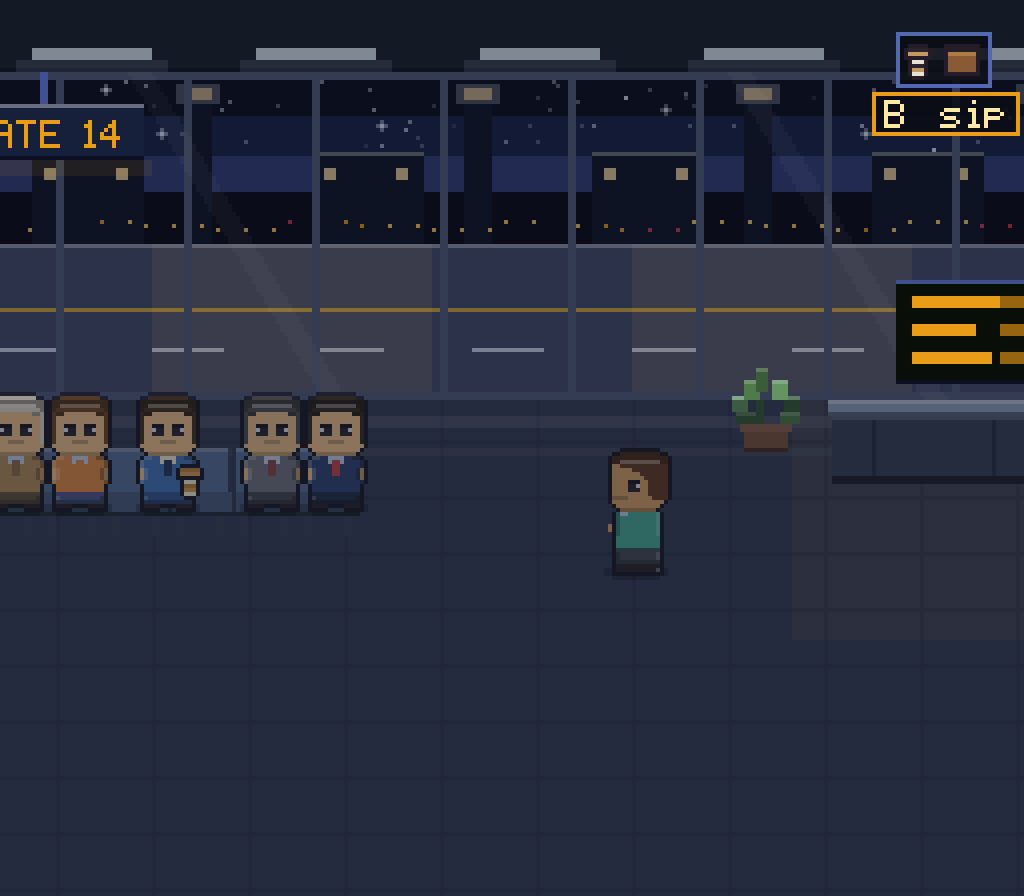
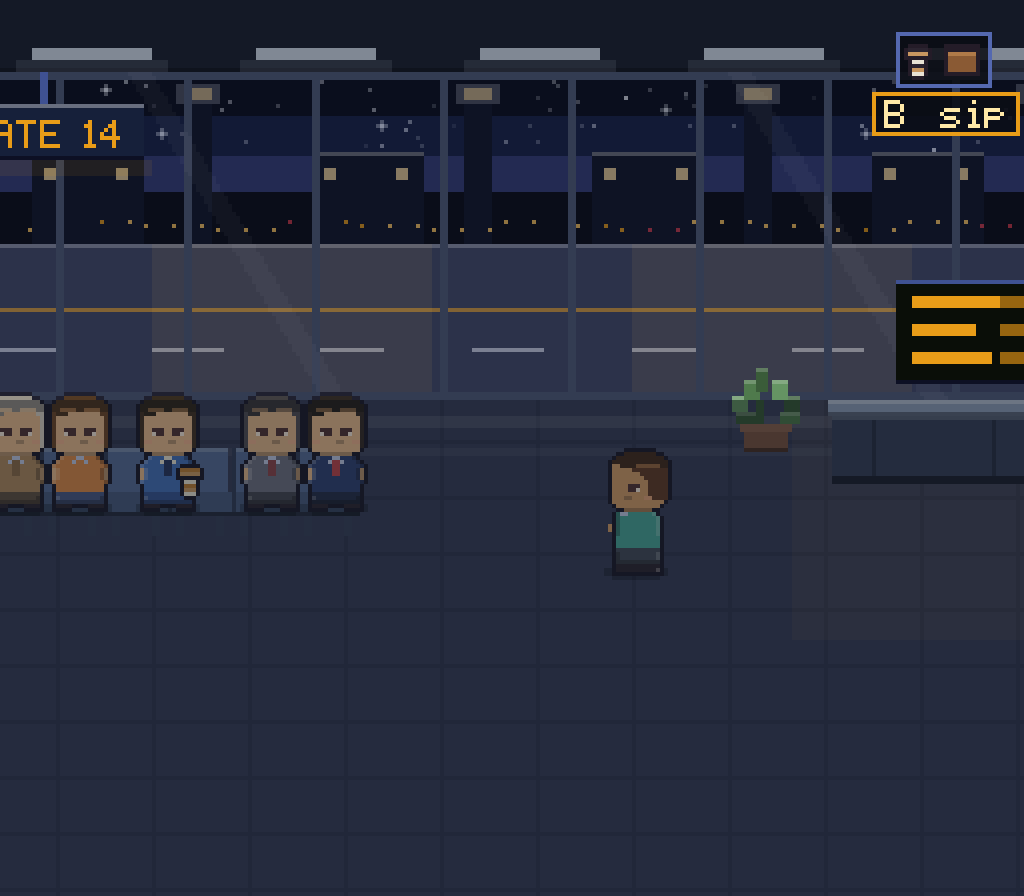
Warm the faces up
They were scowling, and it was three specific things rather than a general
lack of polish:

- A hard outline row sat directly above each eye and read as a furrowed brow.
  Removed entirely; the forehead is open now.
- Eyes were solid three-row blocks of near-black, two pixels wide. Near-black
  stares, and two pixels on a head this size reads as beady. They are now
  three wide, two rows, in a warm dark brown, with a highlight on the inner
  side and more white.
- No mouth and no colour in the cheeks, so nothing softened any of it. Both
  added — the cheek tone is the skin ramp mixed toward a warm blush rather
  than simply lightened.

Also:
- The hair highlight was made by lightening toward white, which turns a dark
  brown grey and read as a bald patch. It is warmed toward a light brown now.
- Shoulders slope instead of sitting square under the bigger head.
- Rounder skull and a tapered jaw.
- tools/faces.js renders heads at 12x, because none of this is judgeable at
  the size the sprites actually appear.

diff --git a/dist/rhubarb.html b/dist/rhubarb.html
@@ -780,26 +780,26 @@
   // eyes in it, and a small tidy body underneath. Eyes are three rows tall
   // with a highlight, which is the single thing that makes a face read.
   var HEAD_DOWN = [
-    '5. 10t 5.',
-    '3. 2t 10d 2t 3.',
+    '6. 8t 6.',
+    '4. 2t 8d 2t 4.',
+    '3. 1t 12d 1t 3.',
     '2. 1t 14d 1t 2.',
-    '2. 1t 2d 10H 2d 1t 2.',
-    '2. 1t 1d 12h 1d 1t 2.',
-    '2. 1t 1h 2d 8k 2d 1h 1t 2.',
+    '2. 1t 2d 4H 2d 4H 2d 1t 2.',
+    '2. 1t 1h 3d 8k 2h 1t 2.',
     '2. 1t 1h 12k 1h 1t 2.',
     '2. 1t 1h 12k 1h 1t 2.',
-    '2. 1t 1h 2k 3t 2k 3t 2k 1h 1t 2.',
-    '2. 1t 1h 2k 1q 2e 2k 2e 1q 2k 1h 1t 2.',
+    '2. 1t 1h 12k 1h 1t 2.',
     '2. 1t 1h 2k 3e 2k 3e 2k 1h 1t 2.',
+    '2. 1t 1h 2k 1q 2e 2k 2e 1q 2k 1h 1t 2.',
     '2. 1t 1h 12k 1h 1t 2.',
-    '2. 1t 1h 4k 4K 4k 1h 1t 2.',
-    '2. 1t 14k 1t 2.',
+    '2. 1t 1h 2f 4k 2K 2k 2f 1h 1t 2.',
+    '2. 1t 1h 12k 1h 1t 2.',
     '3. 1t 12k 1t 3.',
-    '4. 1t 10K 1t 4.'
+    '4. 2t 8K 2t 4.'
   ];
   var TORSO_DOWN = [
-    '3. 1t 2L 2s 4w 2s 2S 1t 3.',
-    '2. 1t 1L 4s 1w 2c 1w 4s 1S 1t 2.',
+    '4. 1t 1L 3s 2w 3s 1S 1t 4.',
+    '3. 1t 1L 3s 1w 2c 1w 3s 1S 1t 3.',
     '2. 1t 1L 5s 2c 5s 1S 1t 2.',
     '2. 1t 1k 1L 4s 2c 4s 1S 1K 1t 2.',
     '2. 1t 1k 1L 4s 2c 4s 1S 1K 1t 2.',
@@ -838,10 +838,10 @@
 
   // -------------------------------------------------------------------- up
   var HEAD_UP = [
-    '5. 10t 5.',
-    '3. 2t 10d 2t 3.',
-    '2. 1t 14d 1t 2.',
-    '2. 1t 2d 10H 2d 1t 2.',
+    '6. 8t 6.',
+    '4. 2t 8d 2t 4.',
+    '3. 1t 12d 1t 3.',
+    '2. 1t 2d 4H 2d 4H 2d 1t 2.',
     '2. 1t 14h 1t 2.',
     '2. 1t 14h 1t 2.',
     '2. 1t 14h 1t 2.',
@@ -856,8 +856,8 @@
     '4. 1t 10K 1t 4.'
   ];
   var TORSO_UP = [
-    '3. 1t 2L 8s 2S 1t 3.',
-    '2. 1t 1L 12s 1S 1t 2.',
+    '4. 1t 1L 8s 1S 1t 4.',
+    '3. 1t 1L 10s 1S 1t 3.',
     '2. 1t 1L 12s 1S 1t 2.',
     '2. 1t 1k 1L 10s 1S 1K 1t 2.',
     '2. 1t 1k 1L 10s 1S 1K 1t 2.',
@@ -869,25 +869,25 @@
 
   // ------------------------------------------------------------------ side
   var HEAD_SIDE = [
-    '4. 10t 6.',
-    '2. 2t 10d 2t 4.',
+    '5. 8t 7.',
+    '3. 2t 8d 2t 5.',
+    '2. 1t 12d 1t 4.',
     '1. 1t 14d 1t 3.',
-    '1. 1t 2d 10H 2d 1t 3.',
-    '1. 1t 12h 2k 1t 3.',
+    '1. 1t 2d 6H 4d 2k 1t 3.',
     '1. 1t 9h 5k 1t 3.',
     '1. 1t 7h 7k 1t 3.',
     '1. 1t 6h 8k 1t 3.',
-    '1. 1t 5h 2k 3t 4k 1t 3.',
-    '1. 1t 5h 2k 1q 2e 4k 1t 3.',
-    '1. 1t 5h 2k 3e 4k 1t 3.',
     '1. 1t 5h 9k 1t 3.',
-    '1. 1t 4h 6k 4K 1t 3.',
+    '1. 1t 5h 2k 3e 4k 1t 3.',
+    '1. 1t 5h 2k 1q 2e 4k 1t 3.',
+    '1. 1t 5h 9k 1t 3.',
+    '1. 1t 4h 2f 3k 2K 3k 1t 3.',
     '2. 1t 13k 1t 3.',
     '3. 1t 11k 1t 4.',
-    '4. 1t 9K 1t 5.'
+    '4. 2t 7K 2t 5.'
   ];
   var TORSO_SIDE = [
-    '3. 1t 1L 7s 2w 1S 1t 4.',
+    '4. 1t 1L 6s 2w 1S 1t 4.',
     '3. 1t 1L 8s 1c 1S 1t 4.',
     '3. 1t 1L 9s 1S 1t 4.',
     '3. 1t 1L 9s 1S 1t 1k 3.',
@@ -1017,9 +1017,11 @@
     var bag = o.bag || P.w3;
     return {
       t: o.outline || RB.P.outline,
-      d: RB.shade(hair, -0.30), h: hair, H: RB.shade(hair, 0.34),
-      k: skin, K: RB.shade(skin, -0.22), f: RB.shade(skin, 0.20),
-      e: '#22202e', q: '#e6e2ee',
+      d: RB.shade(hair, -0.34), h: hair,
+      H: RB.mix(hair, '#e8a860', 0.42),
+      k: skin, K: RB.shade(skin, -0.24),
+      f: RB.mix(RB.shade(skin, 0.10), '#ff9a7a', 0.34),   // cheek warmth
+      e: '#4a2c30', q: '#fff4e4',
       s: shirt, S: RB.shade(shirt, -0.28), L: RB.shade(shirt, 0.22),
       w: o.collar || P.pale, c: o.tie || RB.shade(shirt, -0.48),
       p: pants, P: RB.shade(pants, -0.28), A: RB.shade(pants, 0.20),

diff --git a/src/sprites.js b/src/sprites.js
@@ -36,26 +36,26 @@
   // eyes in it, and a small tidy body underneath. Eyes are three rows tall
   // with a highlight, which is the single thing that makes a face read.
   var HEAD_DOWN = [
-    '5. 10t 5.',
-    '3. 2t 10d 2t 3.',
+    '6. 8t 6.',
+    '4. 2t 8d 2t 4.',
+    '3. 1t 12d 1t 3.',
     '2. 1t 14d 1t 2.',
-    '2. 1t 2d 10H 2d 1t 2.',
-    '2. 1t 1d 12h 1d 1t 2.',
-    '2. 1t 1h 2d 8k 2d 1h 1t 2.',
+    '2. 1t 2d 4H 2d 4H 2d 1t 2.',
+    '2. 1t 1h 3d 8k 2h 1t 2.',
     '2. 1t 1h 12k 1h 1t 2.',
     '2. 1t 1h 12k 1h 1t 2.',
-    '2. 1t 1h 2k 3t 2k 3t 2k 1h 1t 2.',
-    '2. 1t 1h 2k 1q 2e 2k 2e 1q 2k 1h 1t 2.',
+    '2. 1t 1h 12k 1h 1t 2.',
     '2. 1t 1h 2k 3e 2k 3e 2k 1h 1t 2.',
+    '2. 1t 1h 2k 1q 2e 2k 2e 1q 2k 1h 1t 2.',
     '2. 1t 1h 12k 1h 1t 2.',
-    '2. 1t 1h 4k 4K 4k 1h 1t 2.',
-    '2. 1t 14k 1t 2.',
+    '2. 1t 1h 2f 4k 2K 2k 2f 1h 1t 2.',
+    '2. 1t 1h 12k 1h 1t 2.',
     '3. 1t 12k 1t 3.',
-    '4. 1t 10K 1t 4.'
+    '4. 2t 8K 2t 4.'
   ];
   var TORSO_DOWN = [
-    '3. 1t 2L 2s 4w 2s 2S 1t 3.',
-    '2. 1t 1L 4s 1w 2c 1w 4s 1S 1t 2.',
+    '4. 1t 1L 3s 2w 3s 1S 1t 4.',
+    '3. 1t 1L 3s 1w 2c 1w 3s 1S 1t 3.',
     '2. 1t 1L 5s 2c 5s 1S 1t 2.',
     '2. 1t 1k 1L 4s 2c 4s 1S 1K 1t 2.',
     '2. 1t 1k 1L 4s 2c 4s 1S 1K 1t 2.',
@@ -94,10 +94,10 @@
 
   // -------------------------------------------------------------------- up
   var HEAD_UP = [
-    '5. 10t 5.',
-    '3. 2t 10d 2t 3.',
-    '2. 1t 14d 1t 2.',
-    '2. 1t 2d 10H 2d 1t 2.',
+    '6. 8t 6.',
+    '4. 2t 8d 2t 4.',
+    '3. 1t 12d 1t 3.',
+    '2. 1t 2d 4H 2d 4H 2d 1t 2.',
     '2. 1t 14h 1t 2.',
     '2. 1t 14h 1t 2.',
     '2. 1t 14h 1t 2.',
@@ -112,8 +112,8 @@
     '4. 1t 10K 1t 4.'
   ];
   var TORSO_UP = [
-    '3. 1t 2L 8s 2S 1t 3.',
-    '2. 1t 1L 12s 1S 1t 2.',
+    '4. 1t 1L 8s 1S 1t 4.',
+    '3. 1t 1L 10s 1S 1t 3.',
     '2. 1t 1L 12s 1S 1t 2.',
     '2. 1t 1k 1L 10s 1S 1K 1t 2.',
     '2. 1t 1k 1L 10s 1S 1K 1t 2.',
@@ -125,25 +125,25 @@
 
   // ------------------------------------------------------------------ side
   var HEAD_SIDE = [
-    '4. 10t 6.',
-    '2. 2t 10d 2t 4.',
+    '5. 8t 7.',
+    '3. 2t 8d 2t 5.',
+    '2. 1t 12d 1t 4.',
     '1. 1t 14d 1t 3.',
-    '1. 1t 2d 10H 2d 1t 3.',
-    '1. 1t 12h 2k 1t 3.',
+    '1. 1t 2d 6H 4d 2k 1t 3.',
     '1. 1t 9h 5k 1t 3.',
     '1. 1t 7h 7k 1t 3.',
     '1. 1t 6h 8k 1t 3.',
-    '1. 1t 5h 2k 3t 4k 1t 3.',
-    '1. 1t 5h 2k 1q 2e 4k 1t 3.',
-    '1. 1t 5h 2k 3e 4k 1t 3.',
     '1. 1t 5h 9k 1t 3.',
-    '1. 1t 4h 6k 4K 1t 3.',
+    '1. 1t 5h 2k 3e 4k 1t 3.',
+    '1. 1t 5h 2k 1q 2e 4k 1t 3.',
+    '1. 1t 5h 9k 1t 3.',
+    '1. 1t 4h 2f 3k 2K 3k 1t 3.',
     '2. 1t 13k 1t 3.',
     '3. 1t 11k 1t 4.',
-    '4. 1t 9K 1t 5.'
+    '4. 2t 7K 2t 5.'
   ];
   var TORSO_SIDE = [
-    '3. 1t 1L 7s 2w 1S 1t 4.',
+    '4. 1t 1L 6s 2w 1S 1t 4.',
     '3. 1t 1L 8s 1c 1S 1t 4.',
     '3. 1t 1L 9s 1S 1t 4.',
     '3. 1t 1L 9s 1S 1t 1k 3.',
@@ -273,9 +273,11 @@
     var bag = o.bag || P.w3;
     return {
       t: o.outline || RB.P.outline,
-      d: RB.shade(hair, -0.30), h: hair, H: RB.shade(hair, 0.34),
-      k: skin, K: RB.shade(skin, -0.22), f: RB.shade(skin, 0.20),
-      e: '#22202e', q: '#e6e2ee',
+      d: RB.shade(hair, -0.34), h: hair,
+      H: RB.mix(hair, '#e8a860', 0.42),
+      k: skin, K: RB.shade(skin, -0.24),
+      f: RB.mix(RB.shade(skin, 0.10), '#ff9a7a', 0.34),   // cheek warmth
+      e: '#4a2c30', q: '#fff4e4',
       s: shirt, S: RB.shade(shirt, -0.28), L: RB.shade(shirt, 0.22),
       w: o.collar || P.pale, c: o.tie || RB.shade(shirt, -0.48),
       p: pants, P: RB.shade(pants, -0.28), A: RB.shade(pants, 0.20),

diff --git a/tools/faces.js b/tools/faces.js
@@ -1,0 +1,36 @@
+// tools/faces.js — heads only, at 6x, so expression can be judged.
+const { chromium } = require('playwright');
+const path = require('path');
+(async () => {
+  const b = await chromium.launch({ executablePath: '/opt/pw-browsers/chromium' });
+  const p = await b.newPage({ viewport: { width: 1080, height: 940 } });
+  await p.goto('file://' + path.resolve(__dirname, '..', 'index.html'));
+  await p.waitForFunction('window.RB && RB.sprites');
+  await p.evaluate(() => {
+    RB.paused = true;
+    RB.cam.x = 0; RB.cam.y = 0;
+    RB.clear(RB.P.s1);
+    const S = RB.sprites, Z = 3;
+    const who = [
+      ['you',  S.down[0], RB.cast.you,  false],
+      ['side', S.side[0], RB.cast.you,  false],
+      ['elder',S.down[0], RB.cast.elder,false],
+      ['kid',  S.down[0], RB.cast.kid,  false],
+      ['agent',S.down[0], RB.cast.agent,false],
+      ['coat', S.down[0], RB.cast.coat, false]
+    ];
+    who.forEach((w, i) => {
+      const ox = 6 + i * 42, oy = 8;
+      for (let ry = 0; ry < 17; ry++) for (let rx = 0; rx < 20; rx++) {
+        const key = w[1][ry][w[3] ? 19 - rx : rx];
+        if (key === '.') continue;
+        RB.rect(ox + rx * Z, oy + ry * Z, Z, Z, w[2][key] || '#f0f');
+      }
+      RB.font.draw(w[0], ox + 4, oy + 17 * Z + 4, RB.P.s5);
+    });
+    RB.present();
+  });
+  await p.locator('canvas').screenshot({ path: path.resolve(__dirname, '..', 'shots', 'faces.png') });
+  console.log('wrote shots/faces.png');
+  await b.close();
+})();

diff --git a/tools/spritesheet.js b/tools/spritesheet.js
@@ -43,7 +43,19 @@ const path = require('path');
       a.draw();
     });
     
-    RB.font.draw('player: blue suit', 2, 216, RB.P.gold2);
+    // Zoomed faces — draw each head pixel as a 3x3 block.
+    RB.font.draw('faces', 2, 214, RB.P.gold2);
+    const zoom = (rows, ox, oy, pal, flip) => {
+      for (let ry = 0; ry < 16; ry++) for (let rx = 0; rx < 20; rx++) {
+        const key = rows[ry][flip ? 19 - rx : rx];
+        if (key === '.') continue;
+        RB.rect(ox + rx * 3, oy + ry * 3, 3, 3, pal[key] || '#f0f');
+      }
+    };
+    zoom(S.down[0], 44, 200, RB.cast.you);
+    zoom(S.side[0], 110, 200, RB.cast.you);
+    zoom(S.down[0], 176, 200, RB.cast.elder);
+    zoom(S.down[0], 242, 200, RB.cast.kid);
     RB.font.draw('the cast', 140, 132, RB.P.gold2);
     RB.drawSprite(S.bag, 60, 216, RB.cast.you);
     RB.present();
